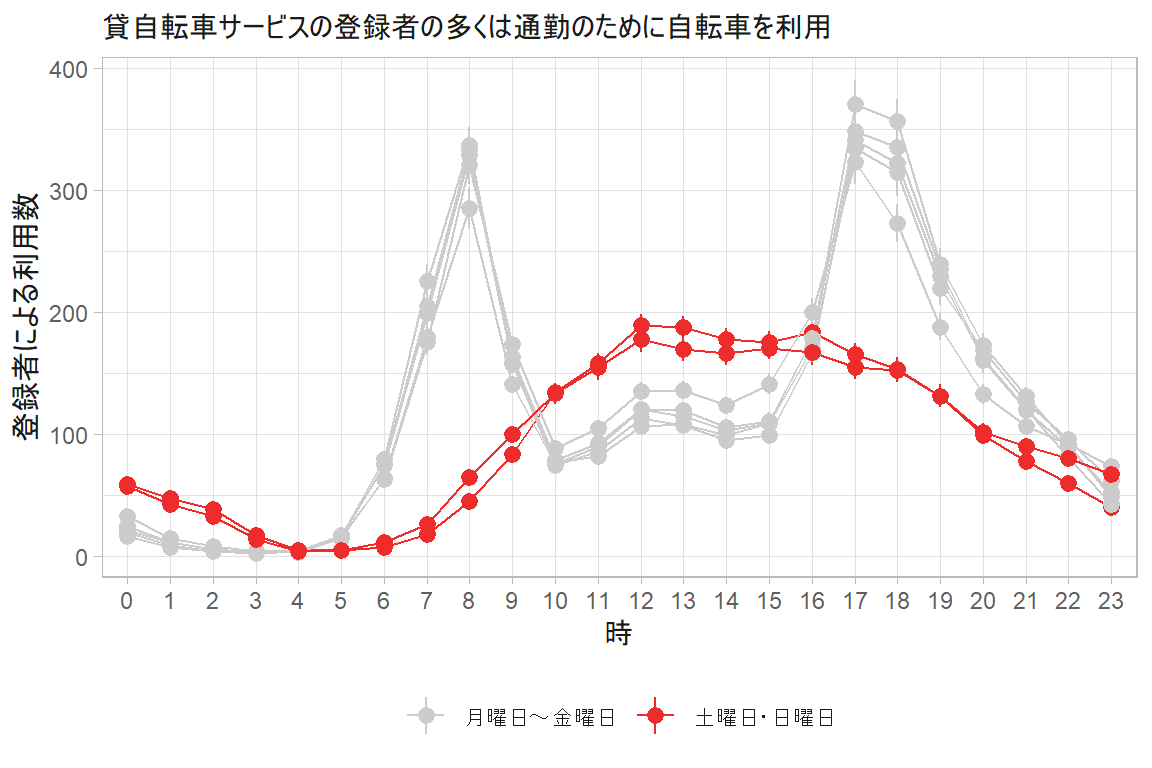
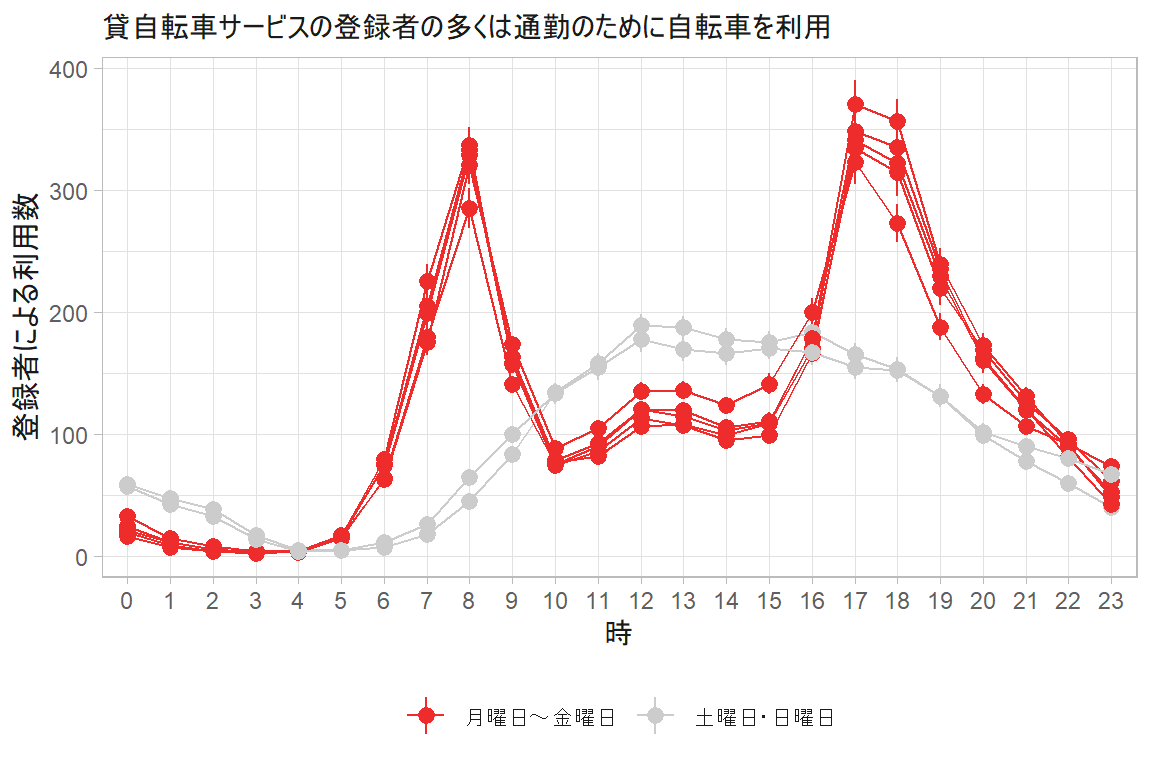
update docs

diff --git a/docs/index.html b/docs/index.html
@@ -206,7 +206,6 @@ window.Quarto = {
   <li><a href="#qualitative-質的カラーパレット" id="toc-qualitative-質的カラーパレット" class="nav-link" data-scroll-target="#qualitative-質的カラーパレット">Qualitative: 質的カラーパレット</a>
   <ul class="collapse">
   <li><a href="#配色の例" id="toc-配色の例" class="nav-link" data-scroll-target="#配色の例">配色の例</a></li>
-  <li><a href="#データの水準とパレットの色数に関する注意点" id="toc-データの水準とパレットの色数に関する注意点" class="nav-link" data-scroll-target="#データの水準とパレットの色数に関する注意点">データの水準とパレットの色数に関する注意点</a></li>
   </ul></li>
   <li><a href="#sequential-順序カラーパレット" id="toc-sequential-順序カラーパレット" class="nav-link" data-scroll-target="#sequential-順序カラーパレット">Sequential: 順序カラーパレット</a>
   <ul class="collapse">
@@ -223,7 +222,7 @@ window.Quarto = {
   <li><a href="#説明的な可視化の例" id="toc-説明的な可視化の例" class="nav-link" data-scroll-target="#説明的な可視化の例">説明的な可視化の例</a></li>
   </ul></li>
   <li><a href="#enjoy" id="toc-enjoy" class="nav-link" data-scroll-target="#enjoy">Enjoy !!</a></li>
-  <li><a href="#リンク集" id="toc-リンク集" class="nav-link" data-scroll-target="#リンク集">リンク集</a></li>
+  <li><a href="#関連リンク集" id="toc-関連リンク集" class="nav-link" data-scroll-target="#関連リンク集">関連リンク集</a></li>
   <li><a href="#使用パッケージ一覧" id="toc-使用パッケージ一覧" class="nav-link" data-scroll-target="#使用パッケージ一覧">使用パッケージ一覧</a></li>
   </ul>
 </nav>
@@ -278,7 +277,7 @@ window.Quarto = {
 <section id="ggplot2-を使ってみよう" class="level2">
 <h2 class="anchored" data-anchor-id="ggplot2-を使ってみよう">ggplot2 を使ってみよう</h2>
 <p><strong>ggplot2</strong> は、<strong>R</strong> でデータの可視化を行う際に標準的に利用されているパッケージです。 その豊富な機能に加え、単体では作成できないプロットを実現するための多くの拡張パッケージが開発されています。</p>
-<p><strong>ggplot2</strong> と拡張パッケージを活用することで、たとえば以下のような多様なプロットを作成することが可能です。</p>
+<p><strong>ggplot2</strong> とその拡張パッケージを活用することで、以下のようなプロットを作成することが可能です。</p>
 <div class="cell">
 <details class="code-fold">
 <summary>Code</summary>
@@ -770,15 +769,24 @@ window.Quarto = {
 </div>
 </div>
 </div>
-</section>
-<section id="データの水準とパレットの色数に関する注意点" class="level4">
-<h4 class="anchored" data-anchor-id="データの水準とパレットの色数に関する注意点">データの水準とパレットの色数に関する注意点</h4>
-<p>質的パレットには、対応付ける変数の水準数によって色の順序が変化するなどの特殊な挙動をするものがあります。特に、水準数がパレットの提供する色数の上限を超えた場合の挙動には注意が必要です。以下はその一例です。</p>
+<div class="callout callout-style-default callout-tip callout-titled" title="データの水準数がパレットの色数を超える場合">
+<div class="callout-header d-flex align-content-center">
+<div class="callout-icon-container">
+<i class="callout-icon"></i>
+</div>
+<div class="callout-title-container flex-fill">
+<span class="screen-reader-only">Tip</span>データの水準数がパレットの色数を超える場合
+</div>
+</div>
+<div class="callout-body-container callout-body">
+<p>質的パレットには、対応付ける変数の水準数によって色の順序が変化するなどの特殊な挙動をするものがあります。 特に、水準数がパレットの提供する色数の上限を超えた場合の挙動には注意が必要です。以下はその一例です。</p>
 <ul>
 <li><p><strong>補間</strong> (Interpolation): 足りない色を計算で作り出し、グラデーションのように対応させる。</p></li>
 <li><p><strong>循環</strong> (Cycling): 用意された色を使い切り、最初に戻って繰り返す。</p></li>
 <li><p><strong>エラー</strong>: カテゴリ数が多すぎるとして描画を停止する。</p></li>
 </ul>
+</div>
+</div>
 </section>
 </section>
 <section id="sequential-順序カラーパレット" class="level3">
@@ -841,6 +849,19 @@ window.Quarto = {
 <p><img src="index_files/figure-html/unnamed-chunk-20-1.png" class="img-fluid figure-img" width="480"></p>
 </figure>
 </div>
+</div>
+</div>
+<div class="callout callout-style-default callout-tip callout-titled" title="paletteer パッケージ">
+<div class="callout-header d-flex align-content-center">
+<div class="callout-icon-container">
+<i class="callout-icon"></i>
+</div>
+<div class="callout-title-container flex-fill">
+<span class="screen-reader-only">Tip</span>paletteer パッケージ
+</div>
+</div>
+<div class="callout-body-container callout-body">
+<p>カラーパレットは非常に多くのパッケージに実装されており、欲しいパレットを提供している関数を探すのは容易ではありません。 そうした場合に役立つのが <strong>paletteer</strong> パッケージです。このパッケージは <strong>R</strong> の世界に存在する無数のカラーパレットを共通のインターフェースで利用できるようにすることを目的とするパッケージで、<code>scale_color_paletteer_d()</code> や <code>scale_fill_paletteer_d()</code> といった関数を使って様々なパレットを試すことができます。</p>
 </div>
 </div>
 <hr>
@@ -908,7 +929,7 @@ window.Quarto = {
 <span id="cb24-20"><a href="#cb24-20" aria-hidden="true" tabindex="-1"></a>    <span class="at">y =</span> <span class="st">"登録者による利用数"</span>, <span class="co"># "Number of Bikers",</span></span>
 <span id="cb24-21"><a href="#cb24-21" aria-hidden="true" tabindex="-1"></a>    <span class="at">color =</span> <span class="cn">NULL</span>,</span>
 <span id="cb24-22"><a href="#cb24-22" aria-hidden="true" tabindex="-1"></a>  ) <span class="sc">+</span></span>
-<span id="cb24-23"><a href="#cb24-23" aria-hidden="true" tabindex="-1"></a>  <span class="fu">scale_color_theme</span>(<span class="st">"highlight?which=2;accent='firebrick2'"</span>) <span class="sc">+</span></span>
+<span id="cb24-23"><a href="#cb24-23" aria-hidden="true" tabindex="-1"></a>  <span class="fu">scale_color_theme</span>(<span class="st">"highlight?which=1;accent='firebrick2'"</span>) <span class="sc">+</span></span>
 <span id="cb24-24"><a href="#cb24-24" aria-hidden="true" tabindex="-1"></a>  <span class="fu">theme_light</span>(<span class="at">ink =</span> <span class="st">"gray10"</span>) <span class="sc">+</span></span>
 <span id="cb24-25"><a href="#cb24-25" aria-hidden="true" tabindex="-1"></a>　<span class="fu">theme</span>(<span class="at">legend.position =</span> <span class="st">"bottom"</span>)</span></code></pre></div><button title="Copy to Clipboard" class="code-copy-button"><i class="bi"></i></button></div>
 </details>
@@ -920,17 +941,17 @@ window.Quarto = {
 </div>
 </div>
 </div>
-<div class="callout callout-style-default callout-tip callout-titled">
+<div class="callout callout-style-default callout-tip callout-titled" title="gghighlight パッケージ">
 <div class="callout-header d-flex align-content-center">
 <div class="callout-icon-container">
 <i class="callout-icon"></i>
 </div>
 <div class="callout-title-container flex-fill">
-Tip
+<span class="screen-reader-only">Tip</span>gghighlight パッケージ
 </div>
 </div>
 <div class="callout-body-container callout-body">
-<p>以上の例のように、カラーパレットを変えることで配色を調整する場合、強調したいデータがその他のデータに埋もれてしまうことがあります。 そうした場合に特定の条件を満たすデータを強調するには、<strong>gghighlight</strong> パッケージが有効です。 <code>gghighlight()</code> 関数をプロットに重ねるだけで、強調するデータのみを表示するレイヤーを重ねてくれるため、他のデータに埋もれてしまうことがありません。</p>
+<p>例のように、カラーパレットを変えることで配色を調整する場合、強調したいデータがその他のデータに埋もれてしまうことがあります。 そうした場合に特定の条件を満たすデータを強調するには、<strong>gghighlight</strong> パッケージが有効です。 <code>gghighlight()</code> 関数をプロットに重ねるだけで、強調するデータのみを表示するレイヤーを重ねてくれるため、他のデータに埋もれてしまうことがありません。</p>
 </div>
 </div>
 </section>
@@ -940,14 +961,14 @@ Tip
 <p><strong>ggplot2</strong> パッケージは、データから柔軟にプロットを作り上げるための最強の道具です。 レイヤーを重ねてプロットの骨格を構築し、データの構造に合致したカラーパレットで彩ることで、データの理解を深めるために有用なプロットを作成することができます。</p>
 <p>ぜひ皆様も、<strong>ggplot2</strong> とその拡張パッケージ (ggplot2 extensions) を駆使して、データの可視化に取り組んでみてください。</p>
 </section>
-<section id="リンク集" class="level2">
-<h2 class="anchored" data-anchor-id="リンク集">リンク集</h2>
+<section id="関連リンク集" class="level2">
+<h2 class="anchored" data-anchor-id="関連リンク集">関連リンク集</h2>
 <ul>
 <li><p><a href="https://exts.ggplot2.tidyverse.org/"><strong>ggplot2 Extensions</strong></a></p>
 <p>ggplot2 の拡張パッケージを網羅的に紹介している公式ウェブサイト</p></li>
 <li><p><a href="https://yutannihilation.github.io/allYourFigureAreBelongToUs/"><strong>All Your Figure Are Belong To Us</strong></a></p>
 <p>圧倒的な事例数を誇る ggplot2 を用いた可視化のギャラリー</p></li>
-<li><p><a href="https://github.com/adamribaudo/storytelling-with-data-ggplot?tab=readme-ov-file">Storytelling With Data - ggplot</a></p>
+<li><p><a href="https://github.com/adamribaudo/storytelling-with-data-ggplot?tab=readme-ov-file"><strong>Storytelling With Data - ggplot</strong></a></p>
 <p>Cole Nussbaumer Knaflic の著書 <em>Storytelling with Data</em> (邦訳: Google 流資料作成術) のプロットを <strong>ggplot2</strong> で再現する試み</p></li>
 <li><p>Wickham, H. (2008), “<a href="https://dr.lib.iastate.edu/entities/publication/9210139e-102e-4537-8b6e-7d8197e2f3d8"><strong>Practical Tools for Exploring Data and Models</strong></a>”, Ph.D.&nbsp;thesis, Iowa State University</p>
 <p>Hadley Wickham 氏の博士論文</p></li>
@@ -968,7 +989,7 @@ Tip
 - stats: 4.5.1
 - ggplot2: 4.0.2
 - ggrepel: 0.9.6
-- midr: 0.6.0.903
+- midr: 0.6.0
 - midnight: 0.2.0
 - khroma: 1.17.0
 - MetBrewer: 0.2.0
